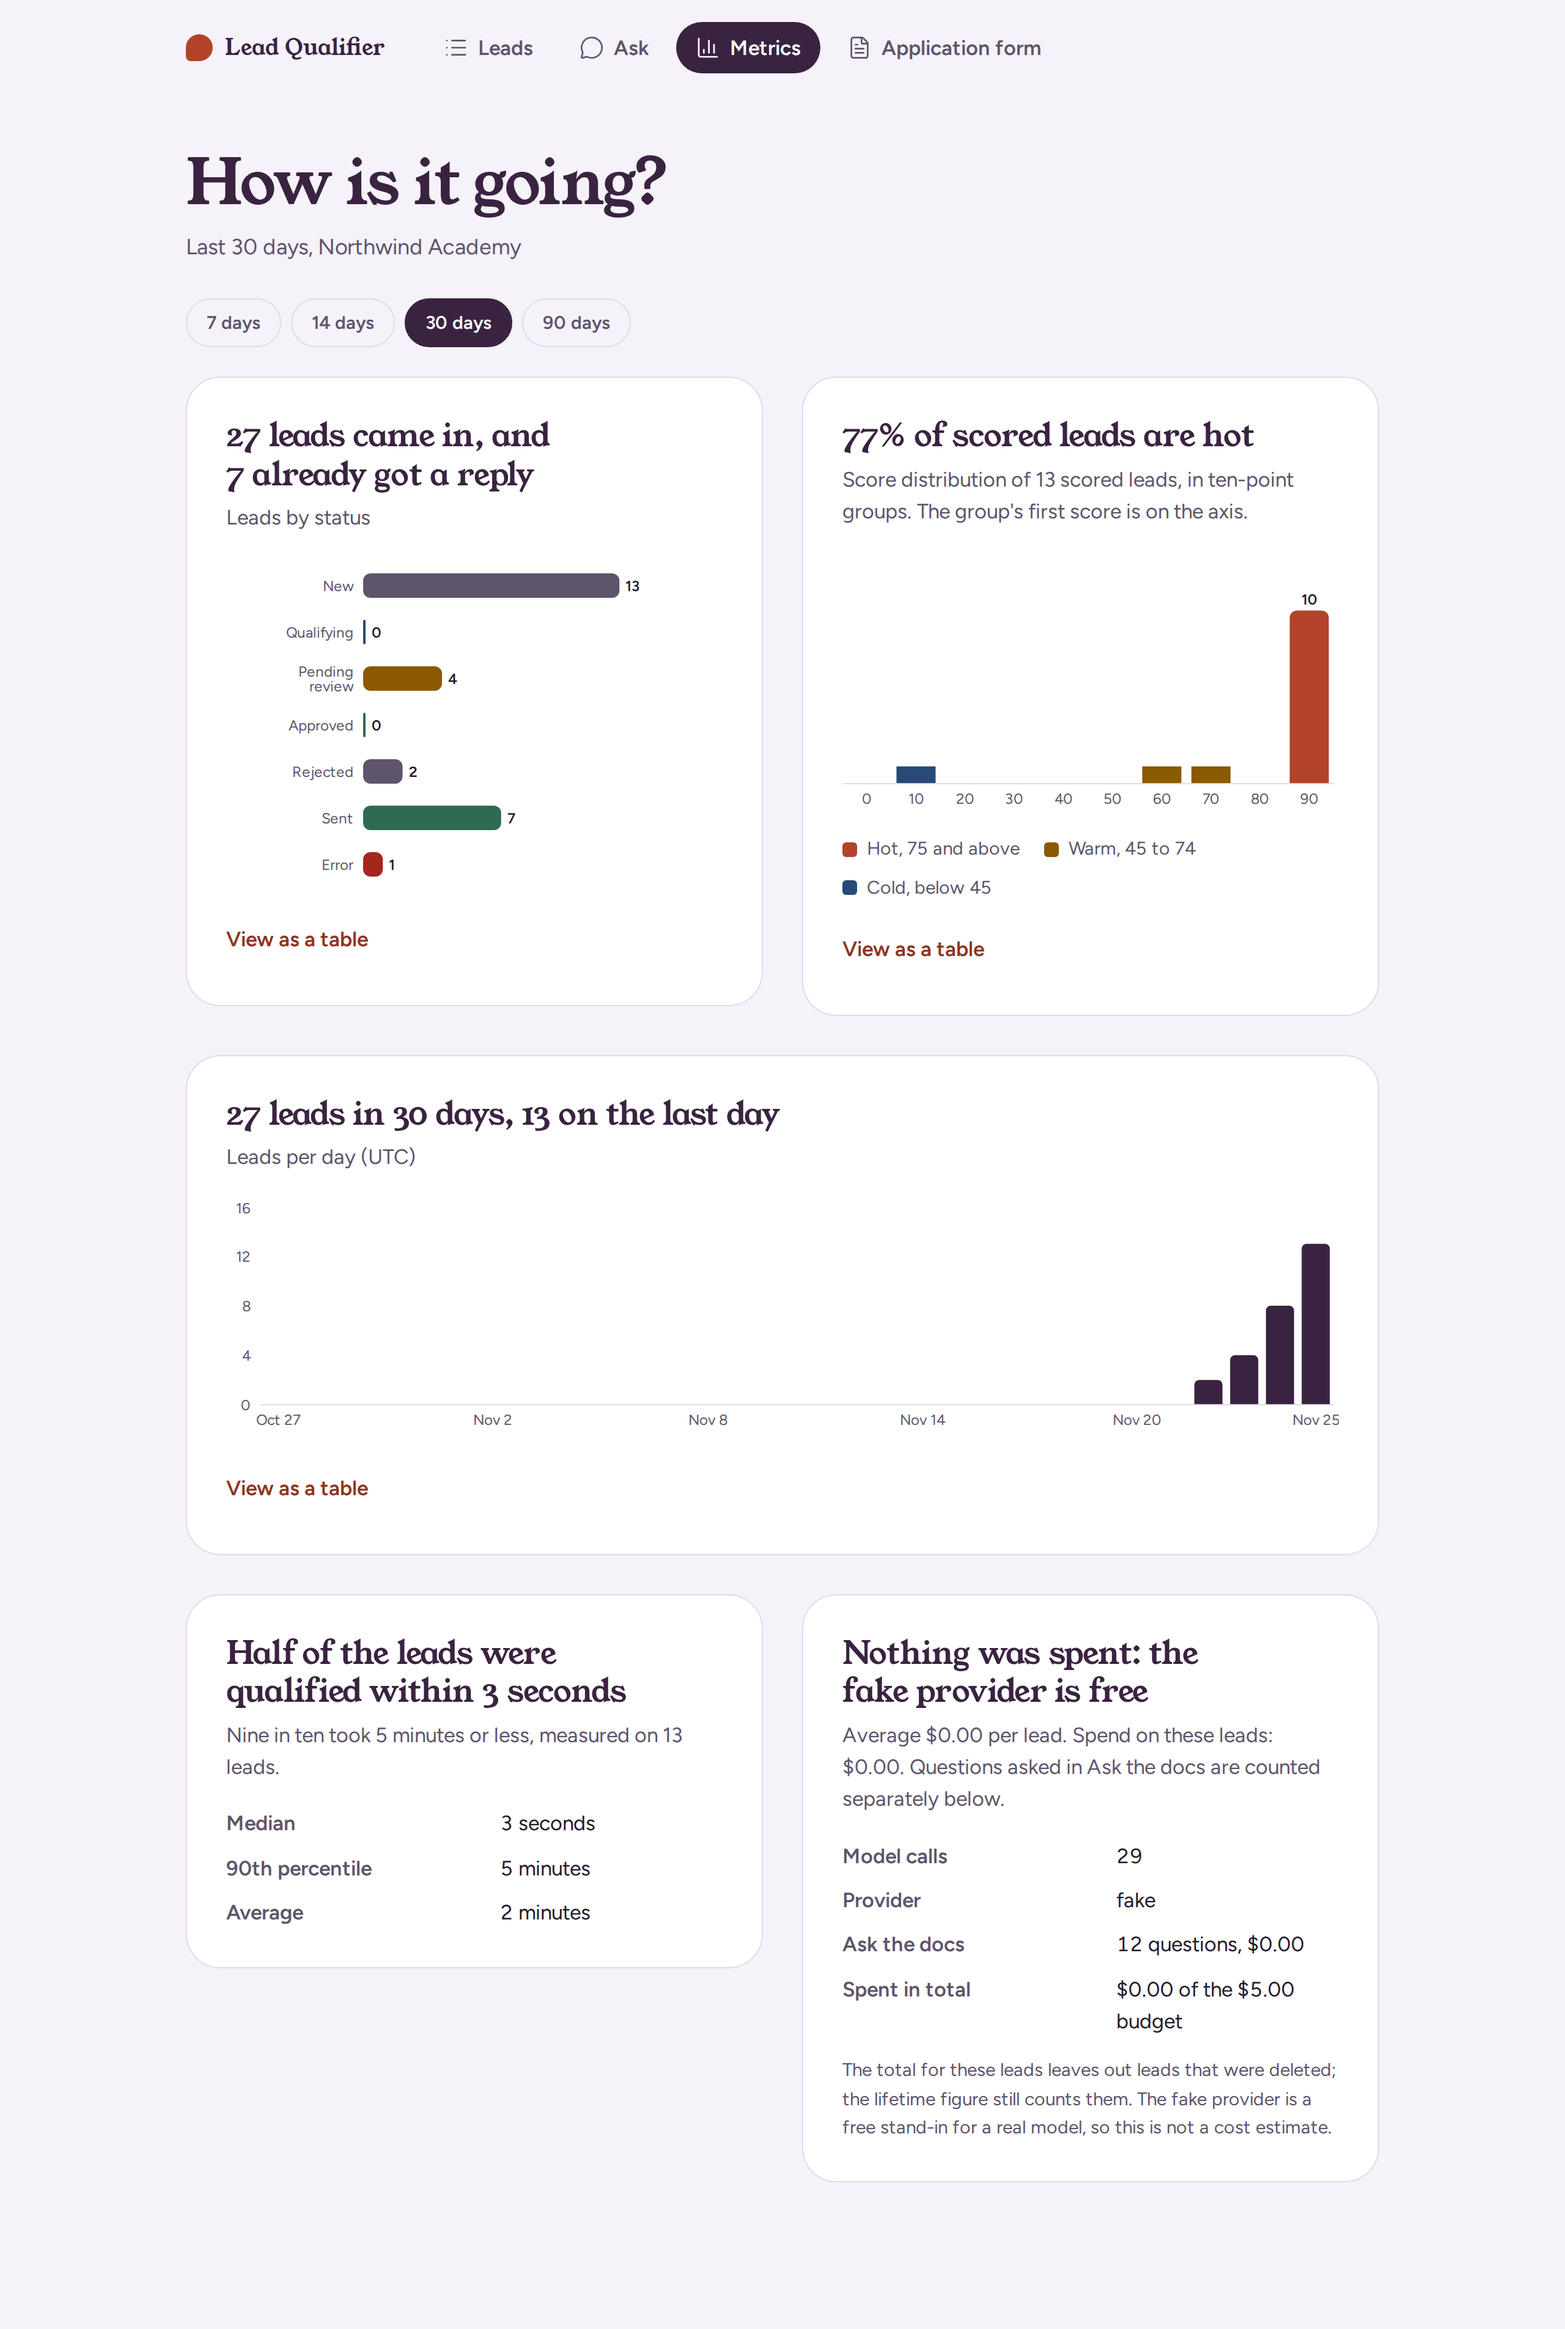
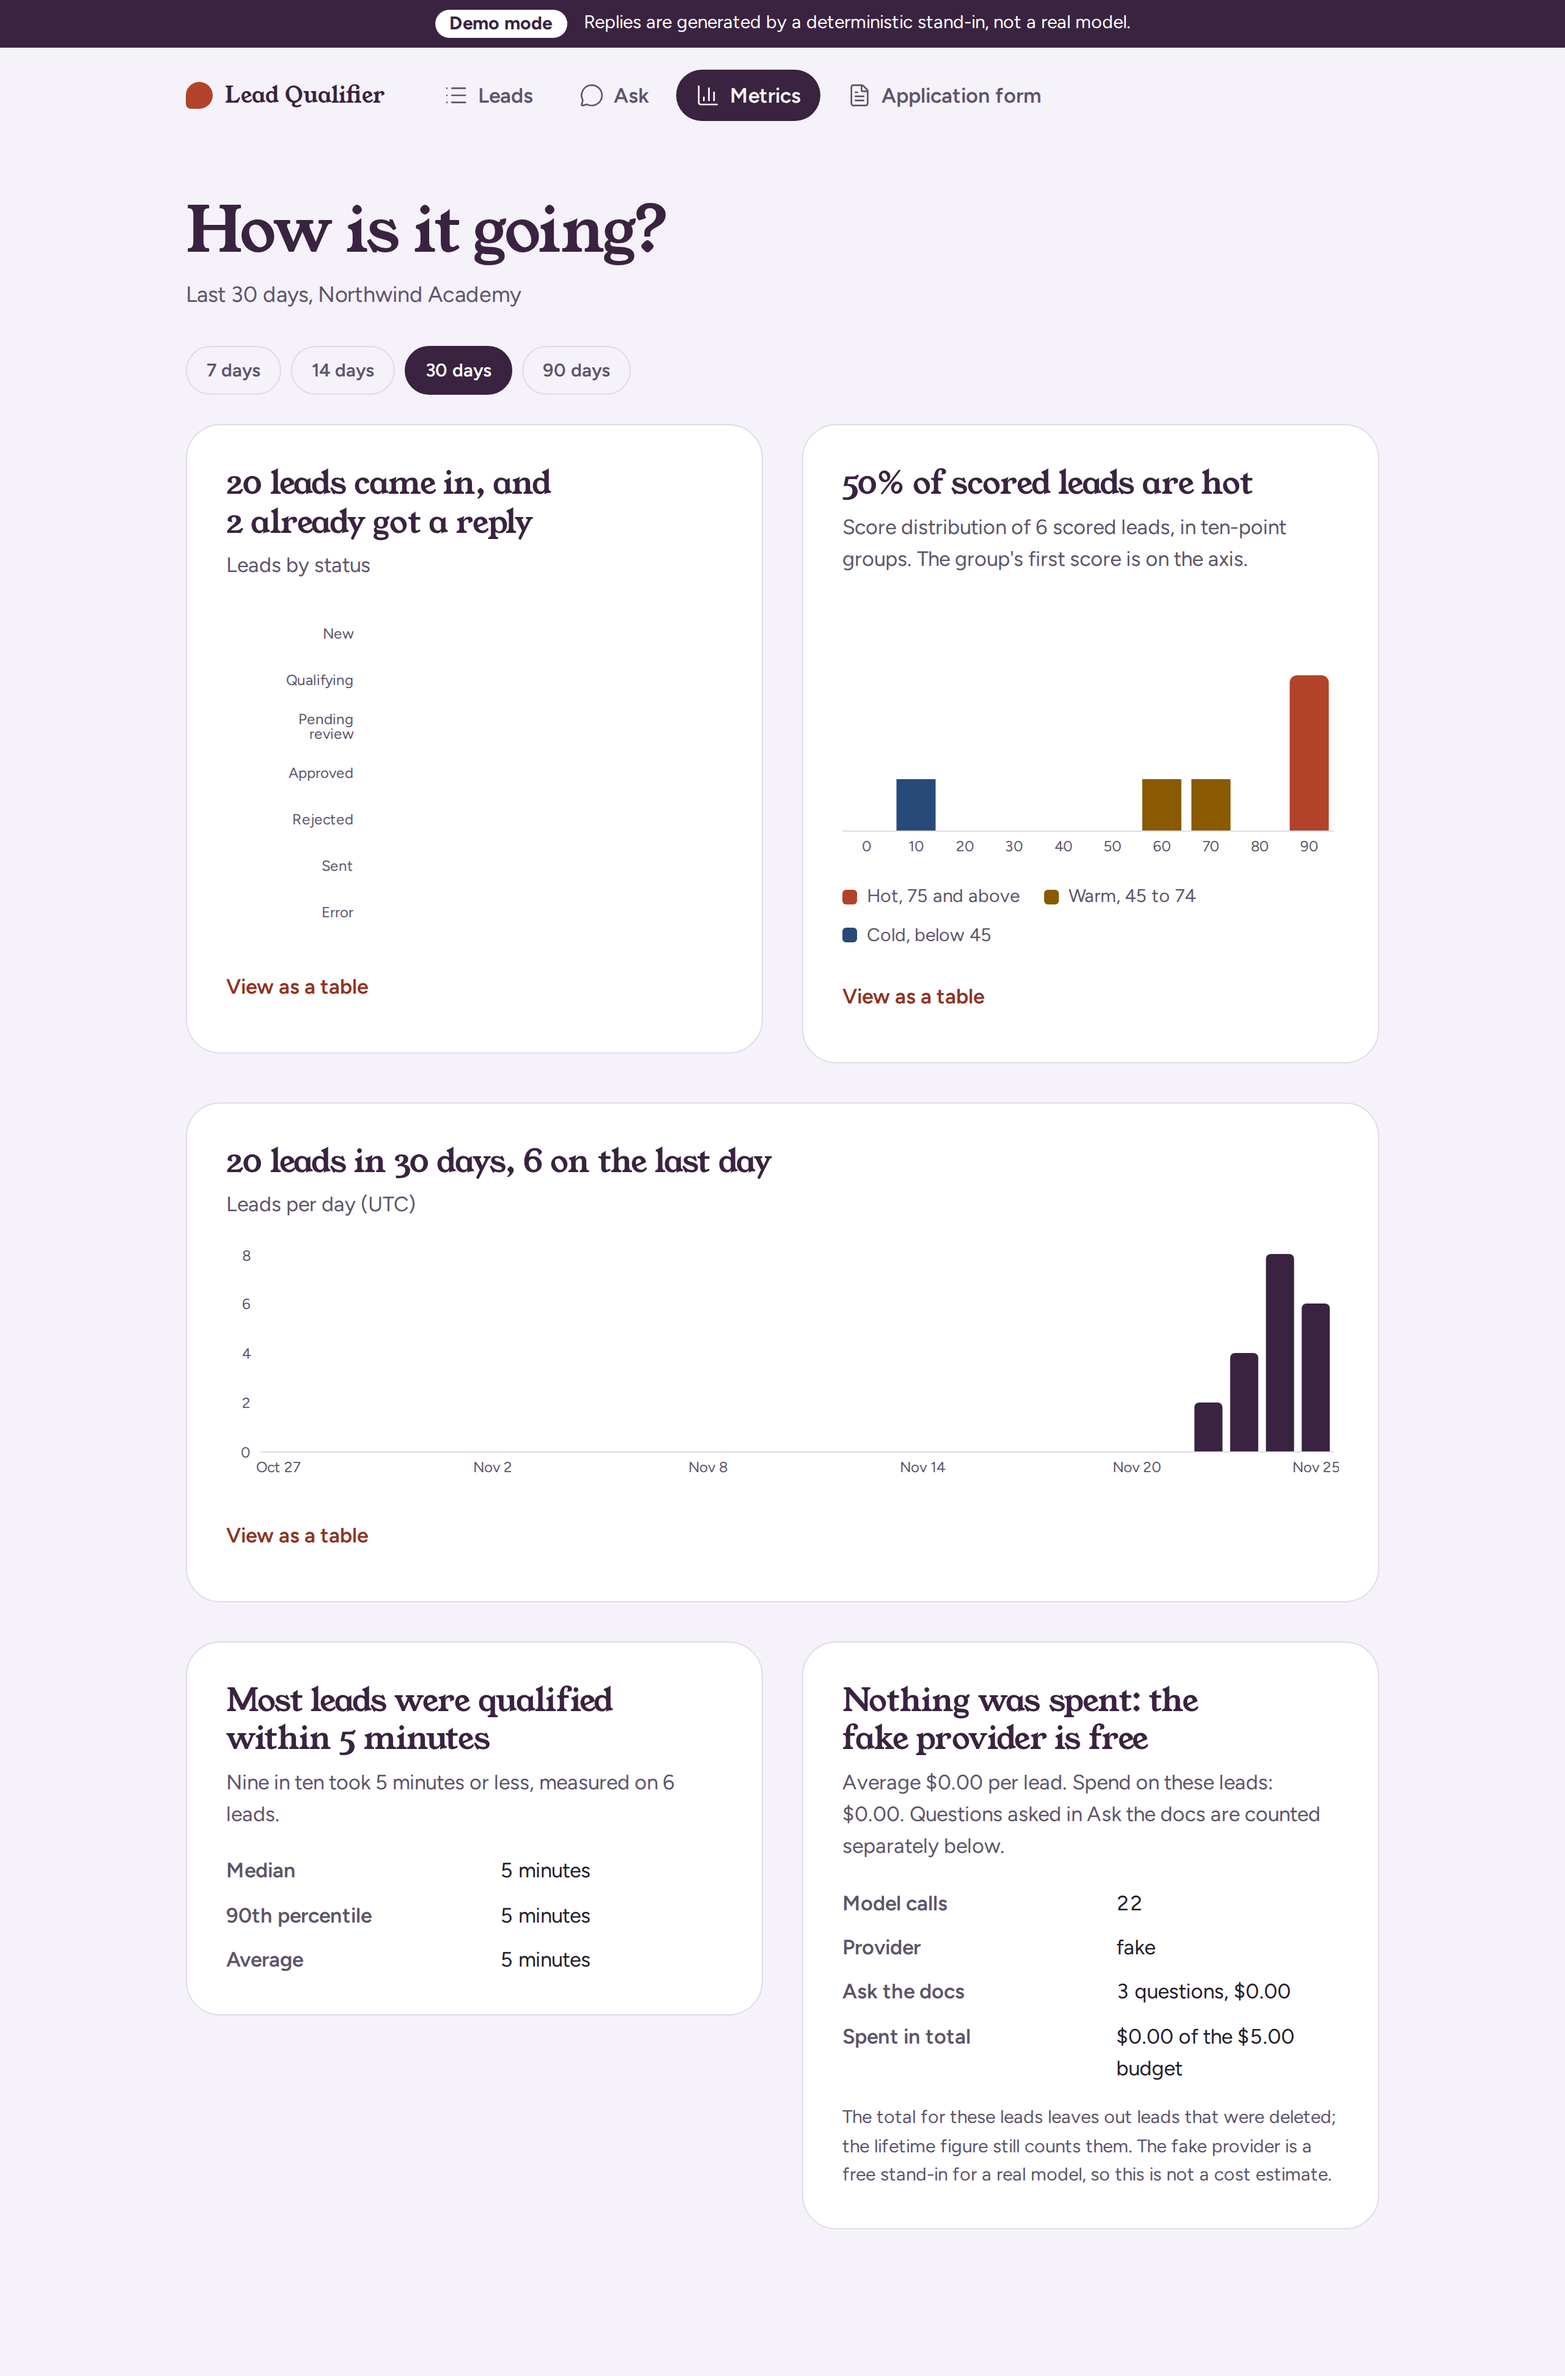
docs: three-command quick start, first-run notes, demo flow animation and refreshed screenshots

diff --git a/README.md b/README.md
@@ -8,7 +8,7 @@ approve-before-send drafting are described in [Roadmap](#roadmap); a person alwa
 > **Status: Phase 2 (qualification agent).** Public form, safe intake API, transactional outbox, n8n
 > integration, LangGraph qualification and drafting, and a dashboard where you review every reply. All data in this repository is fictional (Northwind Academy).
 
-![Leads list, grouped by priority](docs/screenshots/leads-desktop.png)
+![Lead awaiting review: draft reply, score explanation and run log](docs/screenshots/review-desktop.png)
 
 ## The problem
 
@@ -63,14 +63,6 @@ heavy and their "AI" is a black box.
   (default, no key, no network) and OpenAI/Bedrock skeletons. Every call is recorded with its token
   cost, and `LLM_BUDGET_USD` blocks real providers once spent.
 
-| Review a drafted reply (desktop) | Same lead on a phone |
-|---|---|
-| ![Lead detail with the draft reply, score explanation and run log](docs/screenshots/review-desktop.png) | ![Lead detail on a phone](docs/screenshots/review-mobile.png) |
-
-| Metrics | Metrics on a phone |
-|---|---|
-| ![Metrics page](docs/screenshots/metrics-desktop.png) | ![Metrics page on a phone](docs/screenshots/metrics-mobile.png) |
-
 | Draft that failed the safety checks | Public form (mobile) |
 |---|---|
 | ![Safety check failure with Send anyway](docs/screenshots/review-checks-desktop.png) | ![Application form on a phone](docs/screenshots/apply-mobile.png) |
@@ -120,21 +112,41 @@ Next.js 16 (App Router), React 19, Tailwind CSS v4, shadcn/ui, TanStack Query, Z
 Mailpit, Docker Compose. Tooling: uv, pnpm, ruff, mypy (strict), pytest, Testcontainers, Vitest,
 Playwright, GitHub Actions.
 
-## Run it
-
-Requirements: Docker with Compose v2. No API keys are needed for anything in this phase.
+## Quick start (no keys, no accounts)
 
 ```bash
-docker compose up -d --build --wait
-docker compose run --rm agent python -m lead_qualifier.scripts.seed   # 20 fictional leads
+git clone https://github.com/felipemoreno66/ai-lead-qualifier.git && cd ai-lead-qualifier
+cp .env.example .env
+docker compose up
 ```
+
+That is the whole setup. On the first start the stack builds, applies the migrations and a one-shot
+`demo-init` service loads the fictional Northwind Academy data: 20 leads, reply drafts, agent run
+logs, the knowledge base (embedded locally) and a few answered questions. Everything uses the
+deterministic **fake LLM provider**, so nothing is billed and no key is needed. The dashboard says so in a
+"Demo mode" banner.
 
 | URL | What |
 |---|---|
-| http://localhost:3000/dashboard | Dashboard |
-| http://localhost:3000/w/northwind-academy/apply | Public application form |
+| http://localhost:3000/dashboard | Dashboard: leads, Ask the docs, metrics |
+| http://localhost:3000/w/northwind-academy/apply | Public application form (apply, then watch the lead appear) |
+| http://localhost:8025 | Mailpit: the emails you approve arrive here |
 | http://localhost:8000/docs | Agent API (OpenAPI) |
-| http://localhost:8025 | Mailpit (emails) |
+
+![Apply, qualify, approve, email in Mailpit](docs/demo-flow.webp)
+
+- **First run:** about 3 minutes on a typical laptop and connection (image build about 2 minutes, then
+  the knowledge base needs one more minute while a small embedding model, about 90 MB, downloads
+  once into a Docker volume). The dashboard is usable as soon as the leads are loaded; Ask the docs and
+  its sample answers appear when `demo-init` finishes (`docker compose logs demo-init`). Later starts
+  take seconds.
+- **Memory:** about 1.1 GB for the whole stack while the embedding model is loaded (agent limit 1 GB).
+- **Low bandwidth:** `DEMO_EMBEDDINGS=fake KB_MIN_SIMILARITY=0.1 docker compose up` skips the model
+  download and uses offline stand-in embeddings (Ask works, answers are less precise).
+- **Start empty instead:** `DEMO_SEED=false docker compose up`. Demo data is never loaded when
+  `APP_ENV=production` and never for another workspace than `northwind-academy`.
+- **Reset the demo leads:** `make seed-reset` (leads only) or `docker compose run --rm agent python -m lead_qualifier.scripts.demo_init --reset`
+  (leads, drafts, logs).
 
 All ports are bound to `127.0.0.1`. To use n8n as the orchestrator:
 
@@ -142,7 +154,24 @@ All ports are bound to `127.0.0.1`. To use n8n as the orchestrator:
 ORCHESTRATOR=n8n COMPOSE_PROFILES=n8n docker compose up -d --build --wait   # n8n on :5678
 ```
 
-Stop everything with `docker compose down` (add `-v` to delete the database volume).
+Stop everything with `docker compose down` (add `-v` to delete the database and model volumes).
+
+### Screens
+
+| Leads, by priority | Lead awaiting review (desktop) |
+|---|---|
+| ![Leads](docs/screenshots/leads-desktop.png) | ![Lead with draft, score and run log](docs/screenshots/review-desktop.png) |
+
+| Ask the docs | Metrics |
+|---|---|
+| ![Ask the docs](docs/screenshots/ask-desktop.png) | ![Metrics](docs/screenshots/metrics-desktop.png) |
+
+| Sent reply | A failed lead, with Retry |
+|---|---|
+| ![Sent letter](docs/screenshots/sent-desktop.png) | ![Error banner](docs/screenshots/error-desktop.png) |
+
+On a phone: [leads](docs/screenshots/leads-mobile.png), [lead](docs/screenshots/review-mobile.png),
+[Ask](docs/screenshots/ask-mobile.png), [metrics](docs/screenshots/metrics-mobile.png).
 
 ## Security notes (Phase 1)
 
@@ -185,6 +214,8 @@ must be set to at least 16 characters or the agent refuses to start.
 | `ANTHROPIC_API_KEY`, `AWS_REGION`, `OPENAI_API_KEY` | Provider credentials; only needed for that provider |
 | `RATE_*`, `TRUSTED_PROXIES` | Rate limits and proxy trust for `X-Forwarded-For` |
 | `EXPOSE_ADMIN_API` | `false` stops mounting `/admin` and `/internal` (default `true`) |
+| `DEMO_SEED` | Load the Northwind demo data on first start (compose default `true`; ignored in production) |
+| `DEMO_EMBEDDINGS` | `fake` skips the embedding model download for the demo (also set `KB_MIN_SIMILARITY=0.1`) |
 | `TRUST_FORWARDED_HOST` | `true` only behind a reverse proxy you control: the web app then believes `X-Forwarded-Host` for its same-origin check |
 | `DASHBOARD_USER`, `DASHBOARD_PASSWORD` | Basic-auth credentials, required when `APP_ENV=production` |
 
